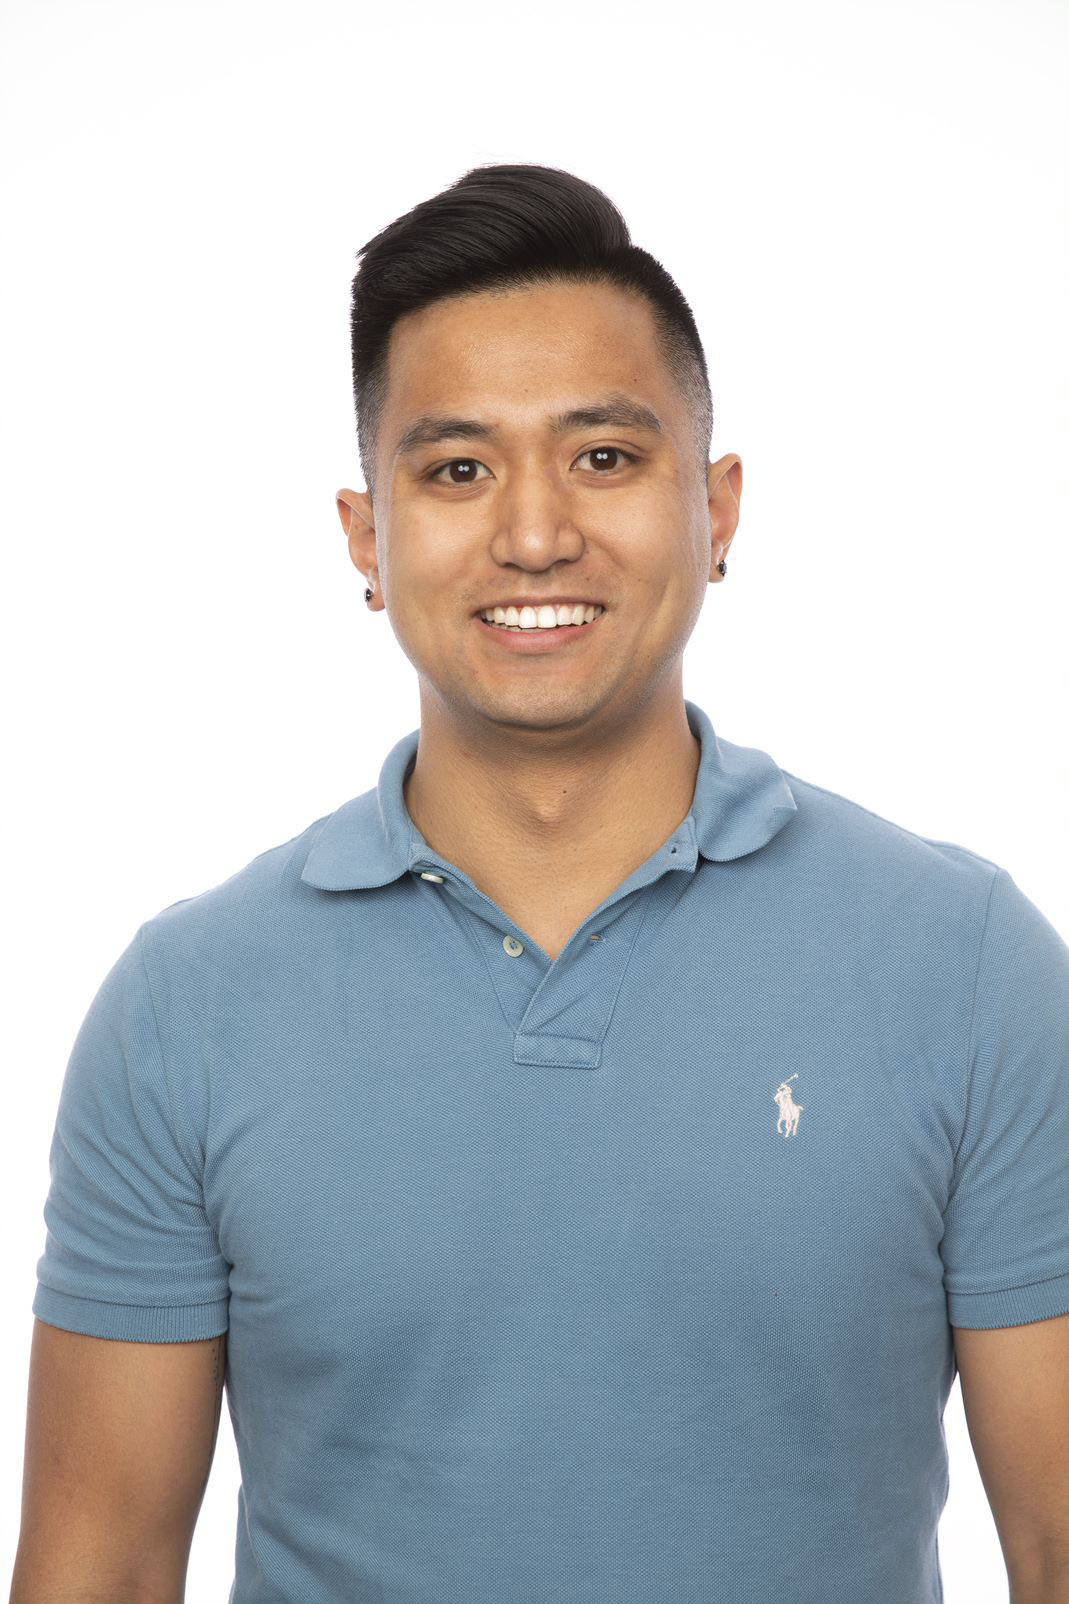
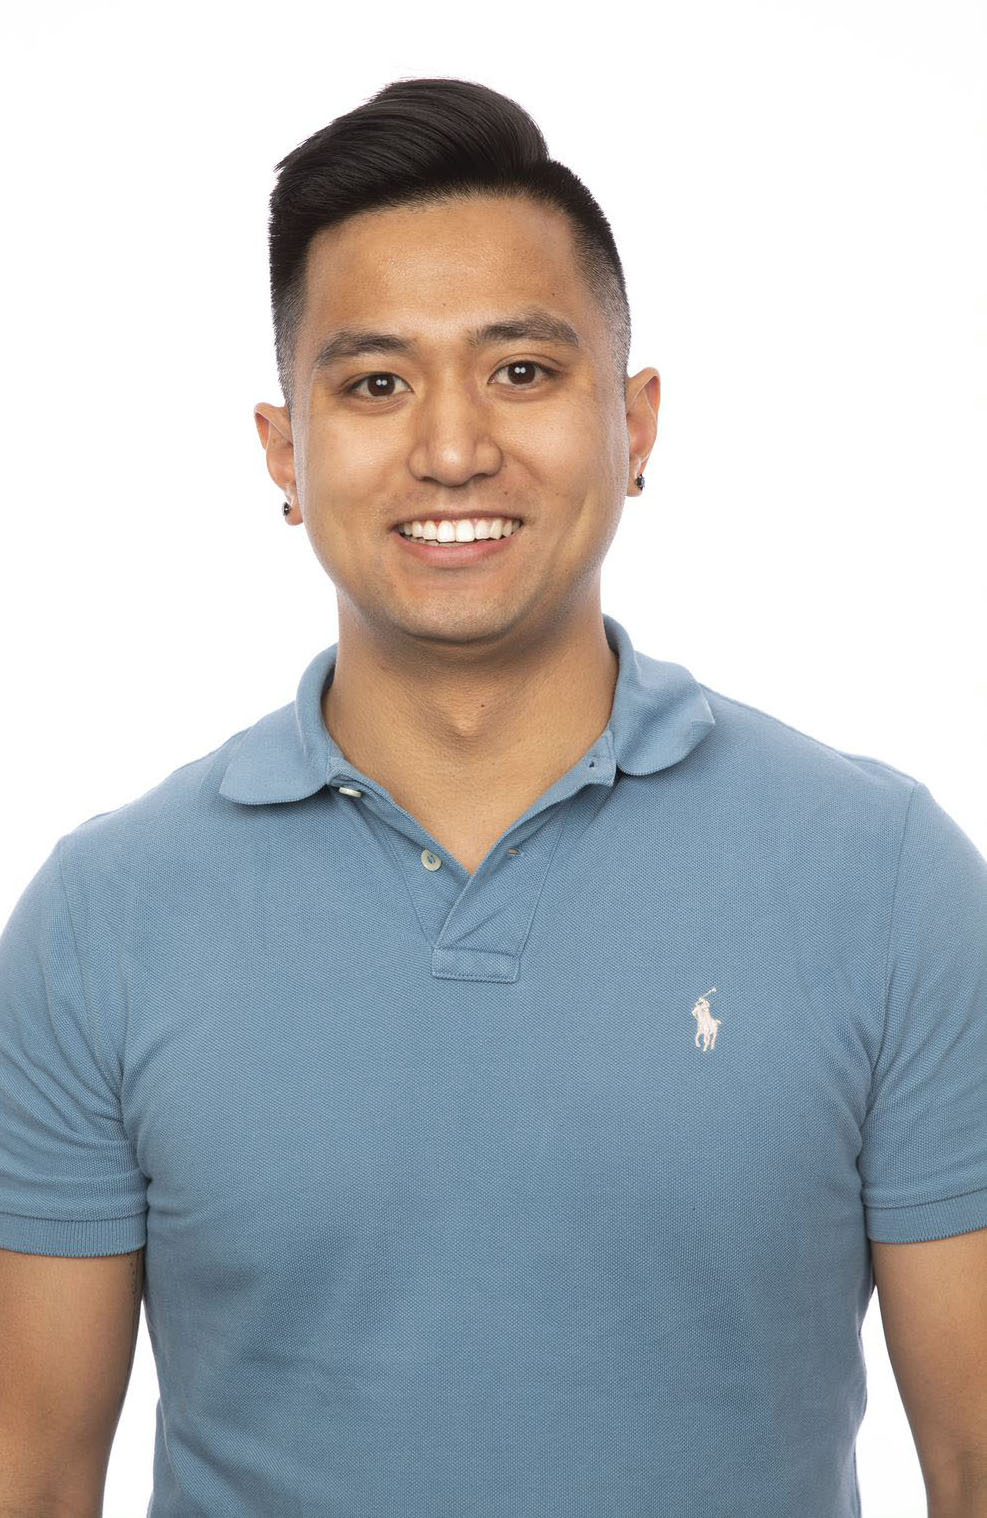
Update style.css

Changed region(s): [[0.0, 0.031, 1.0, 1.0], [0.9726, 0.6502, 1.0, 0.6812], [0.4559, 0.9908, 0.4863, 1.0]]

diff --git a/index.html b/index.html
@@ -1,13 +1,32 @@
 <!DOCTYPE html>
-<html>
-<header>
-    <h1>Nicholas Le</h1>
-</header>
+<html lang="en">
+
+<head>
+    <title>About Me</title>
+    <link rel="stylesheet" href="assets/css/style.css">
+</head>
 
 <body>
-    <h2>About Me</h2>
     
-    <img src="assets/images/Nicholas Le.jpg">
+    <h1>Nicholas Le</h1>
+
+    <section id="about">
+        About
+    </section>
+
+    <section id="portfolio">
+        Portfolio
+    </section>
+
+    <section id="contact">
+        Contact
+    </section>
+
+
+
+    <h2>About Me</h2>
+
+    <img src="assets/images/Nicholas Le.jpg" alt="Nicholas Le">
 
     <p>My name is Nicholas Le and I was born and raised in San Jose, CA.
         26 years old.

diff --git a/assets/css/style.css b/assets/css/style.css
@@ -1,0 +1,41 @@
+h1 {
+    font-family: Georgia, 'Times New Roman', Times, serif;
+    color: white;
+    background-color: #4aaaa5;
+    width: 200px;
+    text-align: center;
+    padding: 20px;
+    margin-bottom: 20px;
+    float: left;
+}
+
+#about {
+    float: right;
+    
+}
+
+#portfolio {
+    float: right;
+}
+
+#contact {
+    float: right;
+}
+
+body{
+    clear: left;
+}
+
+h2 {
+    font-family: Georgia, 'Times New Roman', Times, serif;
+    color: #4aaaa5; 
+    clear: left;
+}
+
+img {
+    max-width: 250px;
+    float: left;
+}
+
+
+
